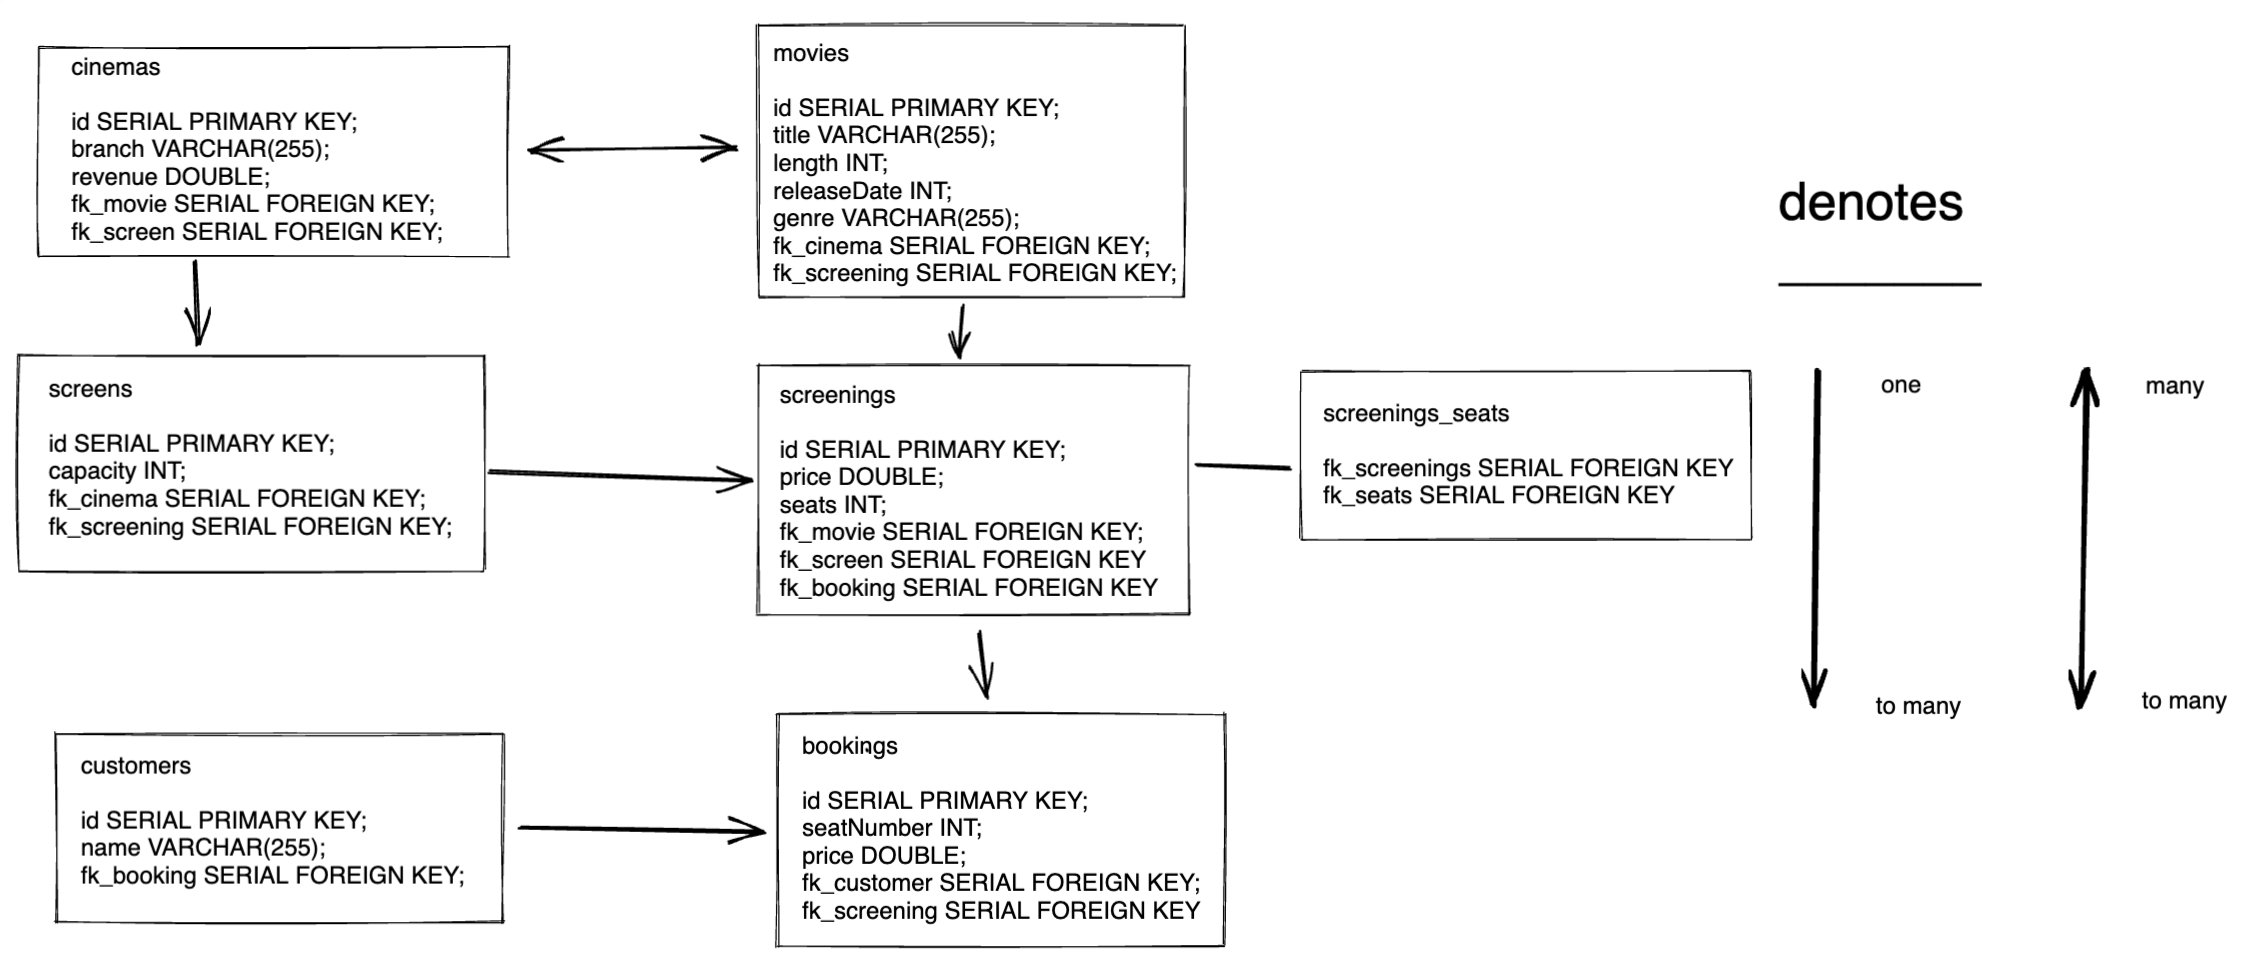
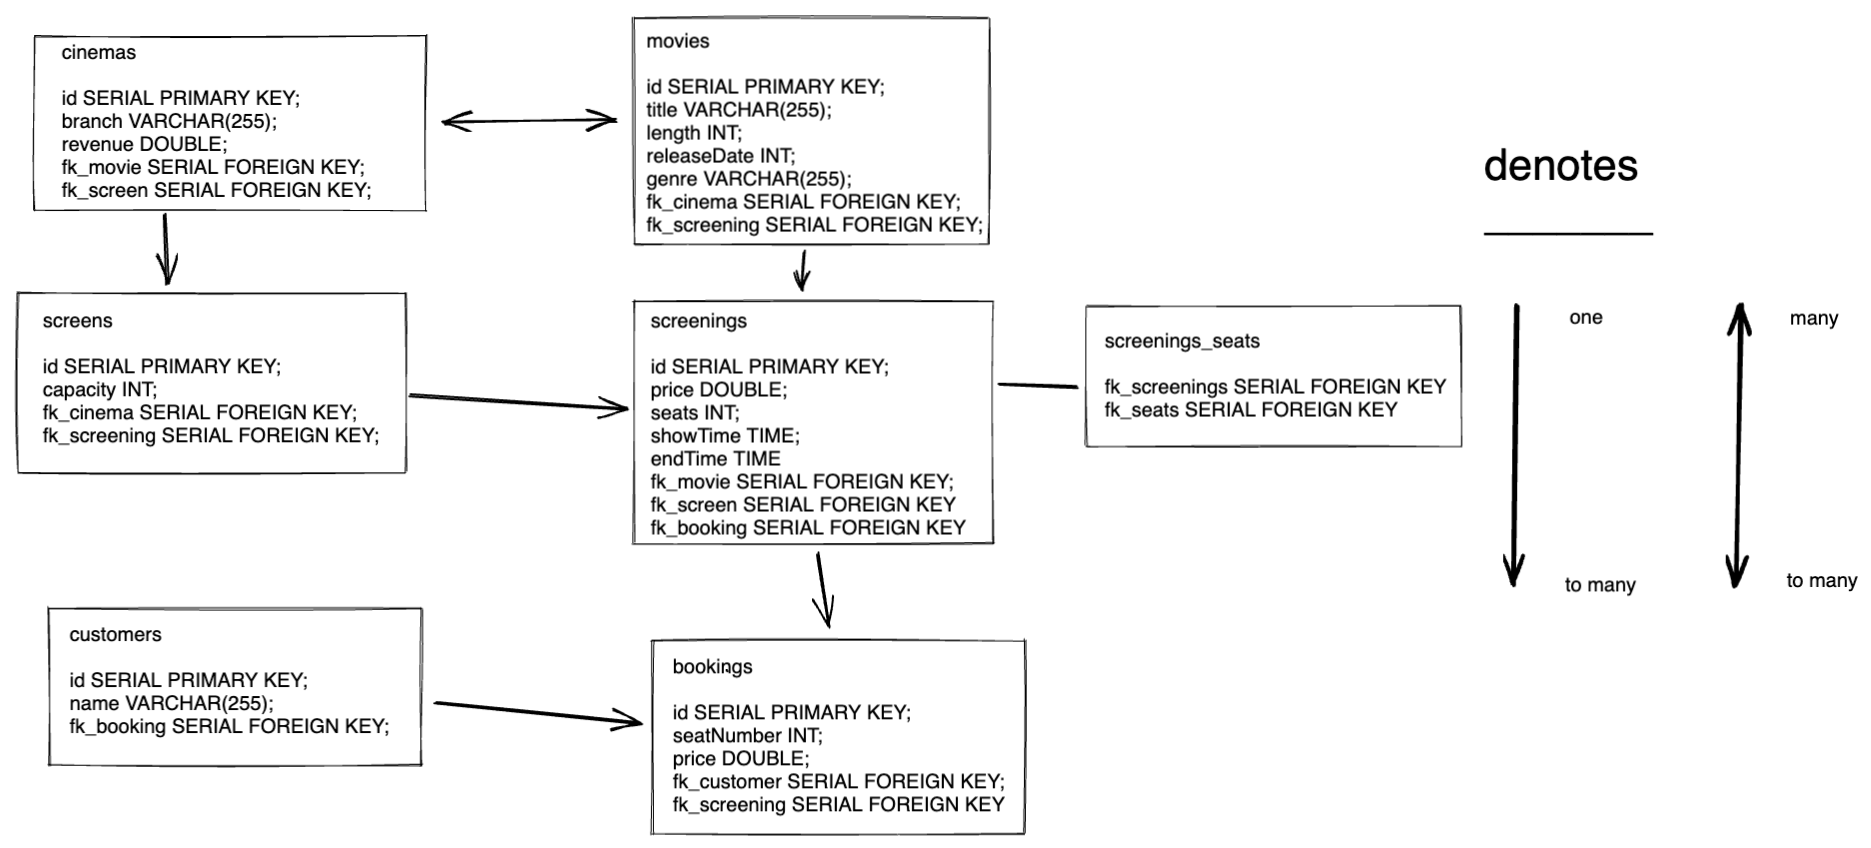
update diagrams and readme

diff --git a/README.md b/README.md
@@ -89,6 +89,7 @@ How we worked together:
 |`.../cinemas/{id}/revenue`|`GET`| Get Total Revenue|
 | `.../cinemas/{id}/movies/{movieId}`  | `DELETE`  | Cancel Movie  |
 | `.../cinemas/{id}/movies`  | `POST`  | Add Movie To Cinema  |
+| `.../cinemas/{id}/movies/{movieId}`  | `POST`  | Add Existed Movie To Cinema  |
 | `.../cinemas/{id}/screens`  | `POST`  | Add Screen To Cinema |
 | `.../cinemas`  | `POST`  | Create Cinema  |
 | `.../customers` | `GET` | Get All Customers |
@@ -98,8 +99,10 @@ How we worked together:
 | `.../screens/{id}?cinemaId={cinemaId}` | `GET` | Get Screen By ID |
 | `.../screens/{screenId}/screenings` | `GET` | Get All Screenings |
 | `.../screens/{id}/screenings?cinemaId={cinemaId}` | `GET` | Get Screening By ID |
+| `.../screens/screenings/{id}/bookings`  | `GET`  | Get All Bookings By Screening ID |
 | `.../screens` | `POST` | Create New Screen |
-| `.../screens/{screenId}?screeningId={screeningId}?cinemaId={cinemaId}` | `POST` | Create/Add New Screening To Screen |
+| `.../screens/{screenId}?screeningId={screeningId}?cinemaId={cinemaId}` | `POST` | Create/Add Existed Screening To Screen |
+| `.../screens/{screenId}/screenings?cinemaId={cinemaId}` | `POST` | Create New Screening To Screen |
 | `.../screens/{screenId}/screenings/{screeningId}/customers/{customerId}?cinemaId={cinemaId}&seat={seat}` | `POST` | Add New Customer To Screening |
 | `.../screens/{screenId}/screenings/{screeningId}/movies/{movieId}?cinemaId={cinemaId}` | `POST` | Add New Movie To Screening |
 | `.../screens/{screenId}?cinemaId={cinemaId}&screeningId={screeningId}` | `DELETE` | Delete Screening By ID |
